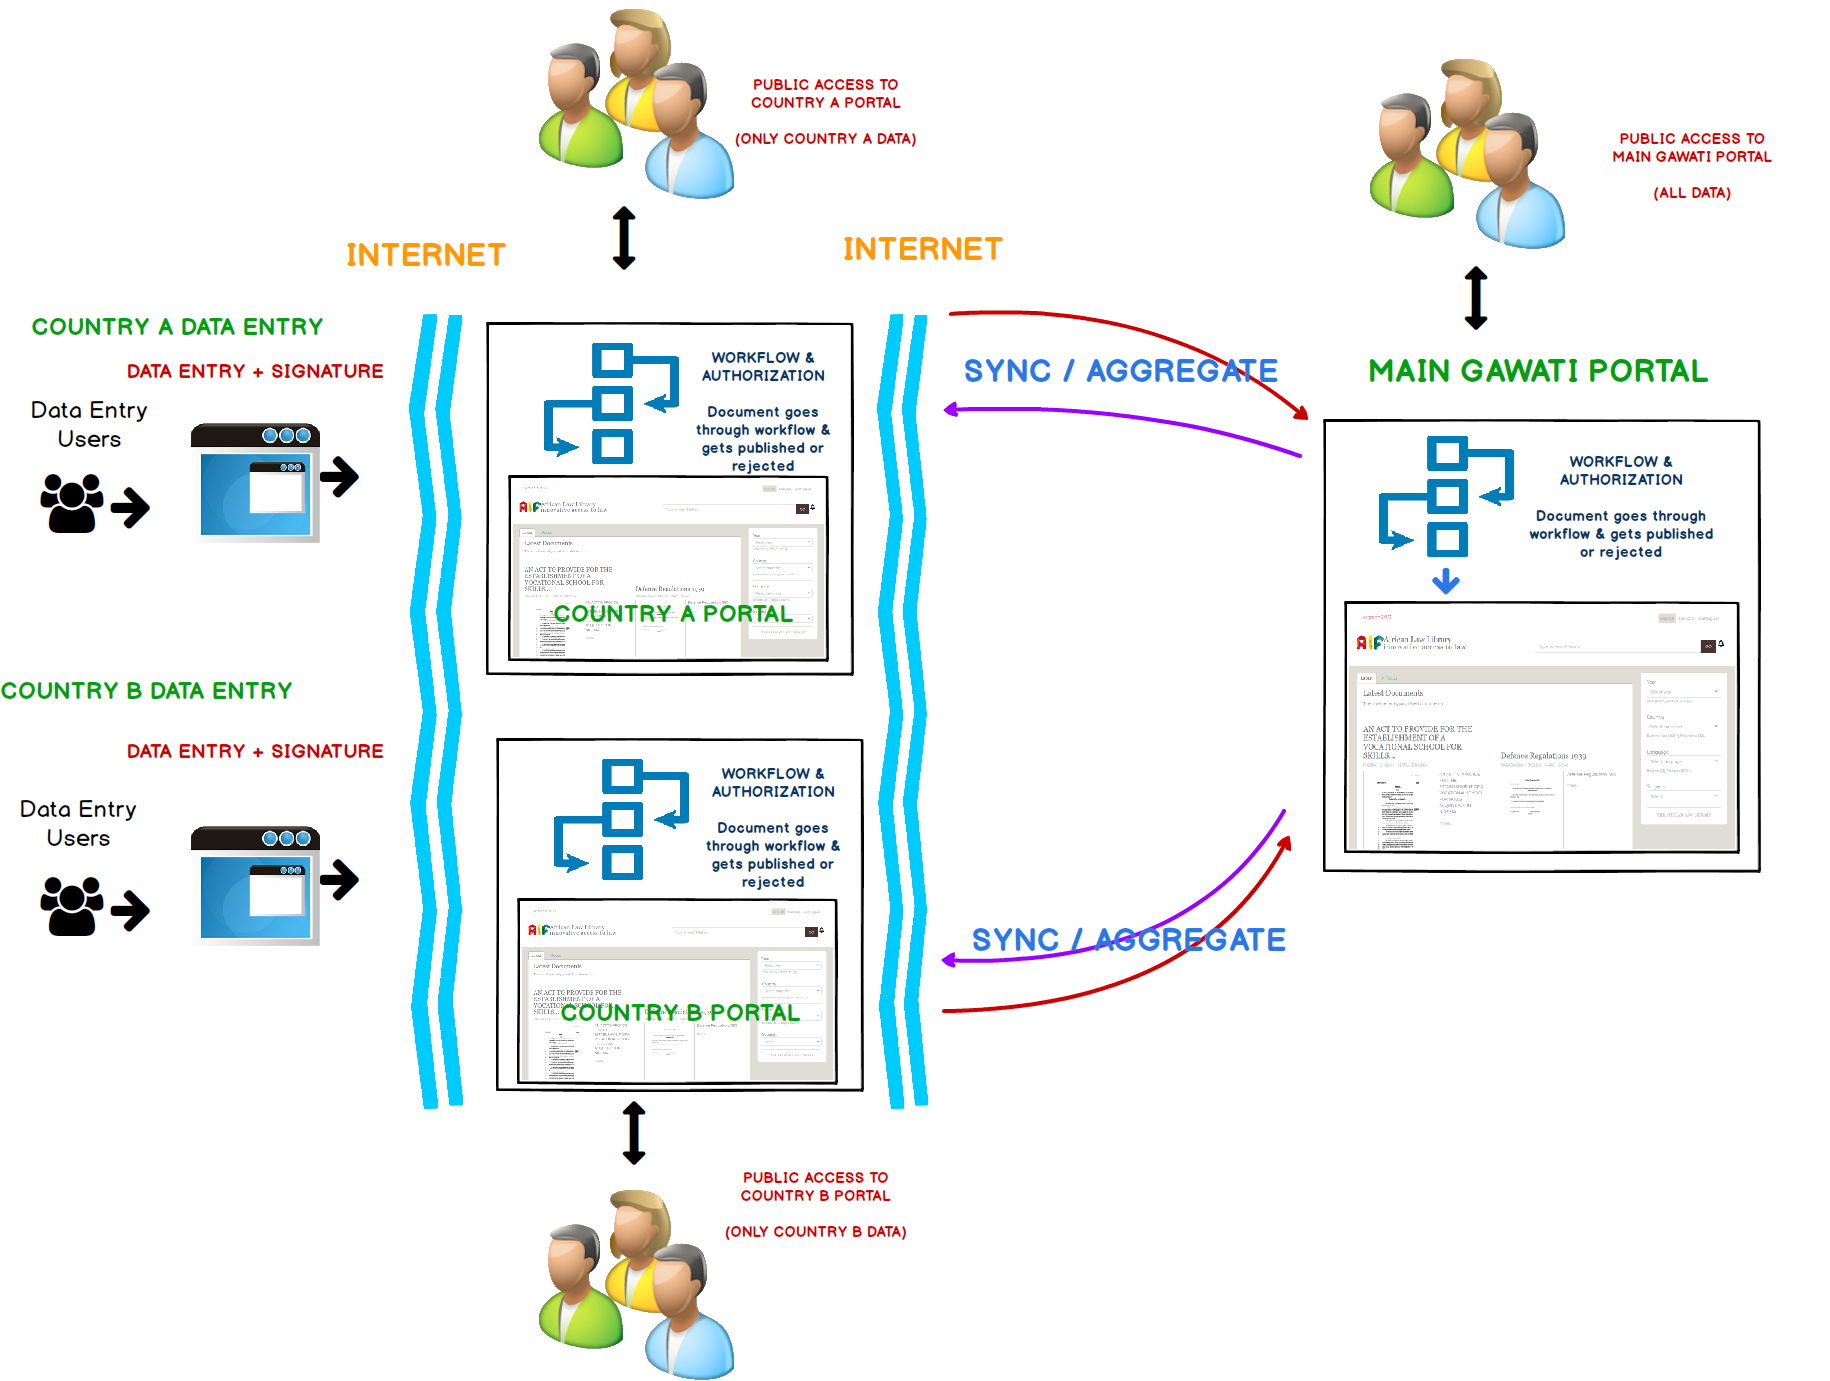
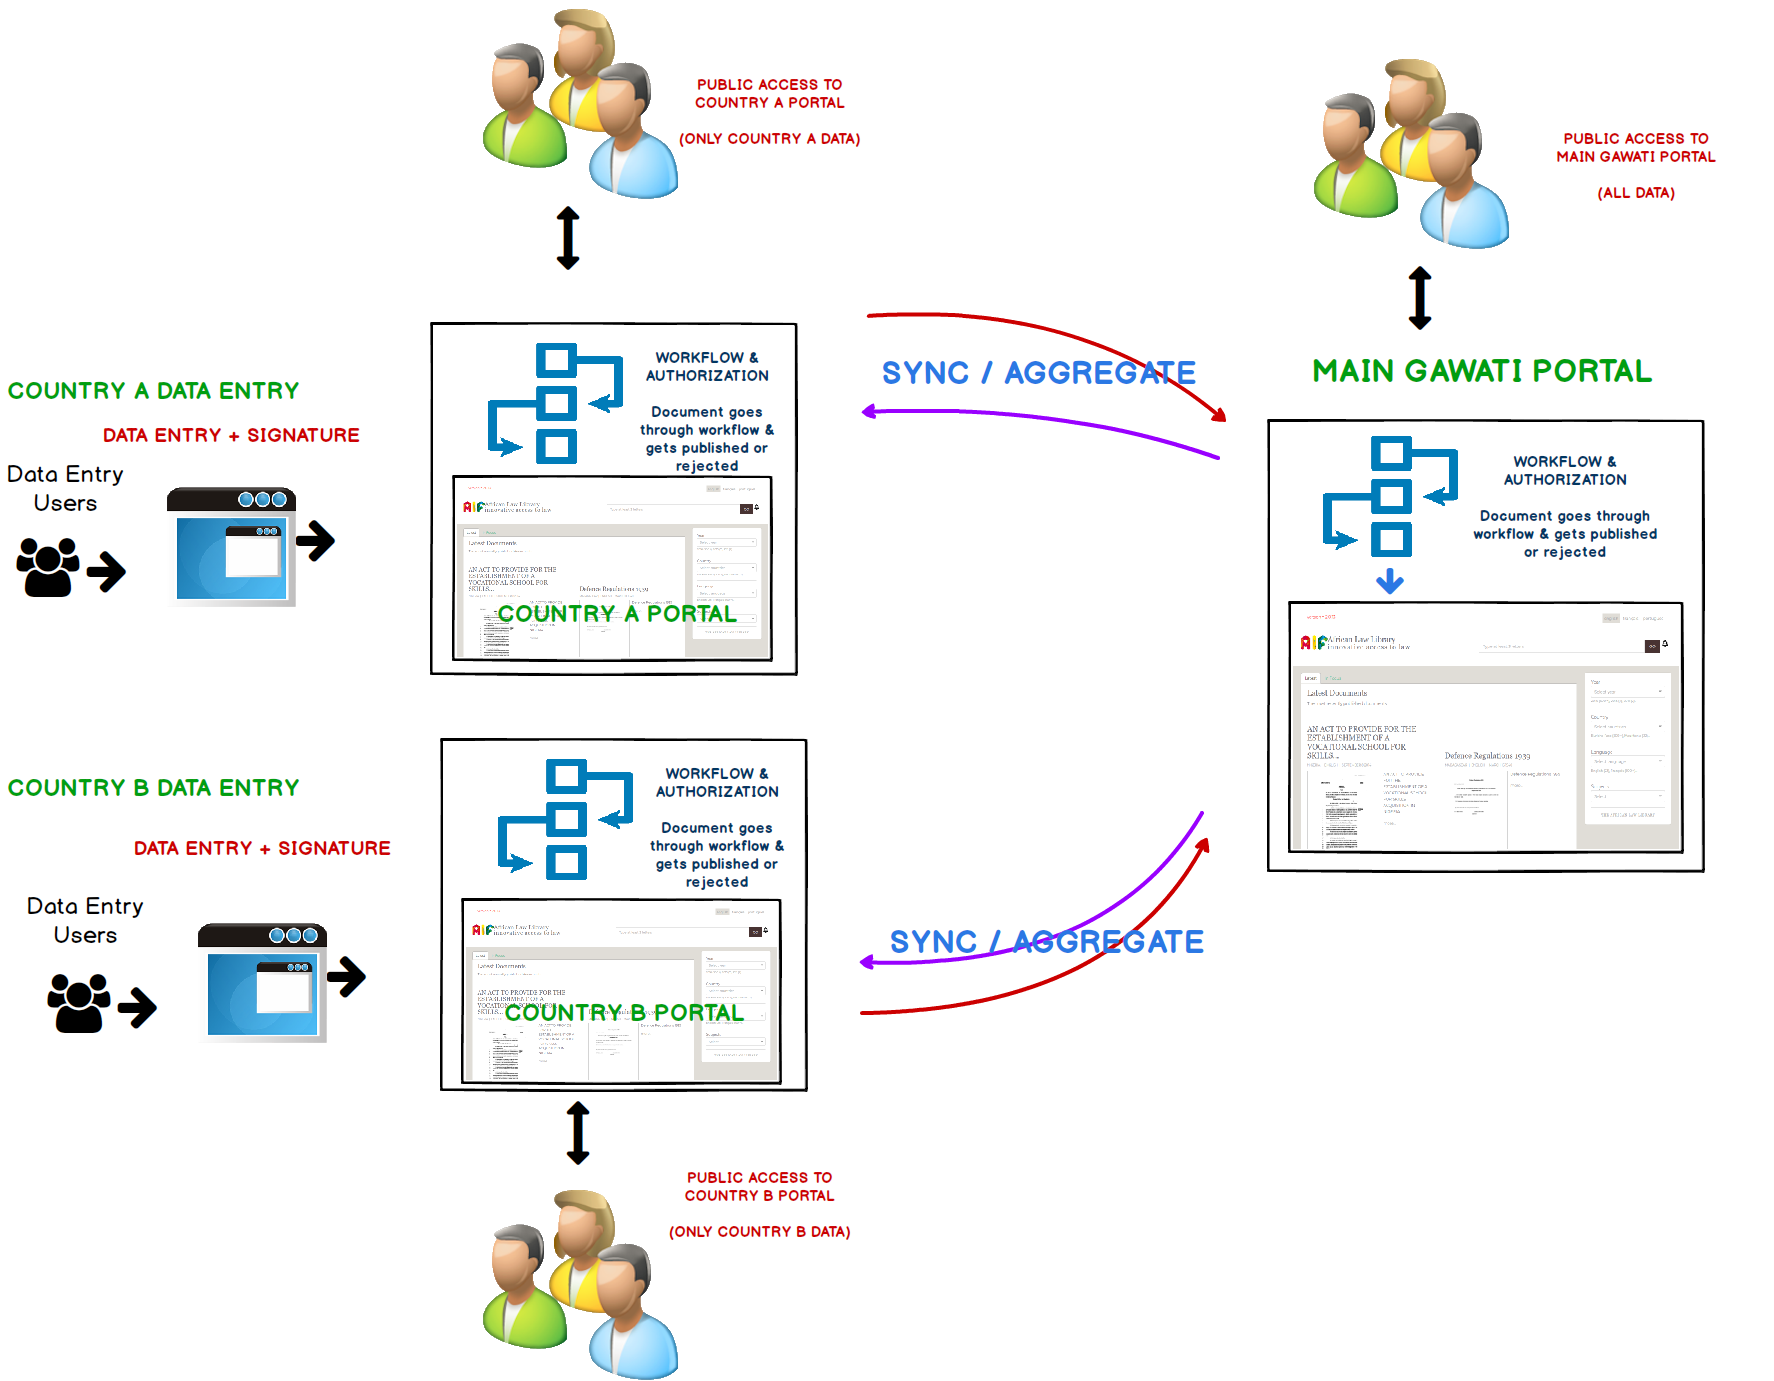
Fixing typo and diagram

diff --git a/docs/source/what-is-gawati.rst b/docs/source/what-is-gawati.rst
@@ -16,7 +16,7 @@ Gawati makes us of `Akoma Ntoso XML <http://www.akomantoso.org>`__ an open stand
 
 We do this quite differently. Our distributed / federated architecture allows syncing legal data across servers. 
 
-You can standalone as described above, but you can also run it federated: 
+You can run gawati as standalone as described above, but you can also run it in a federated setup, where multiple gawati instances running indepdently push data onto a central aggregator: 
 
 .. figure:: ./_images/federation.png
   :target: ./_images/federation.png
